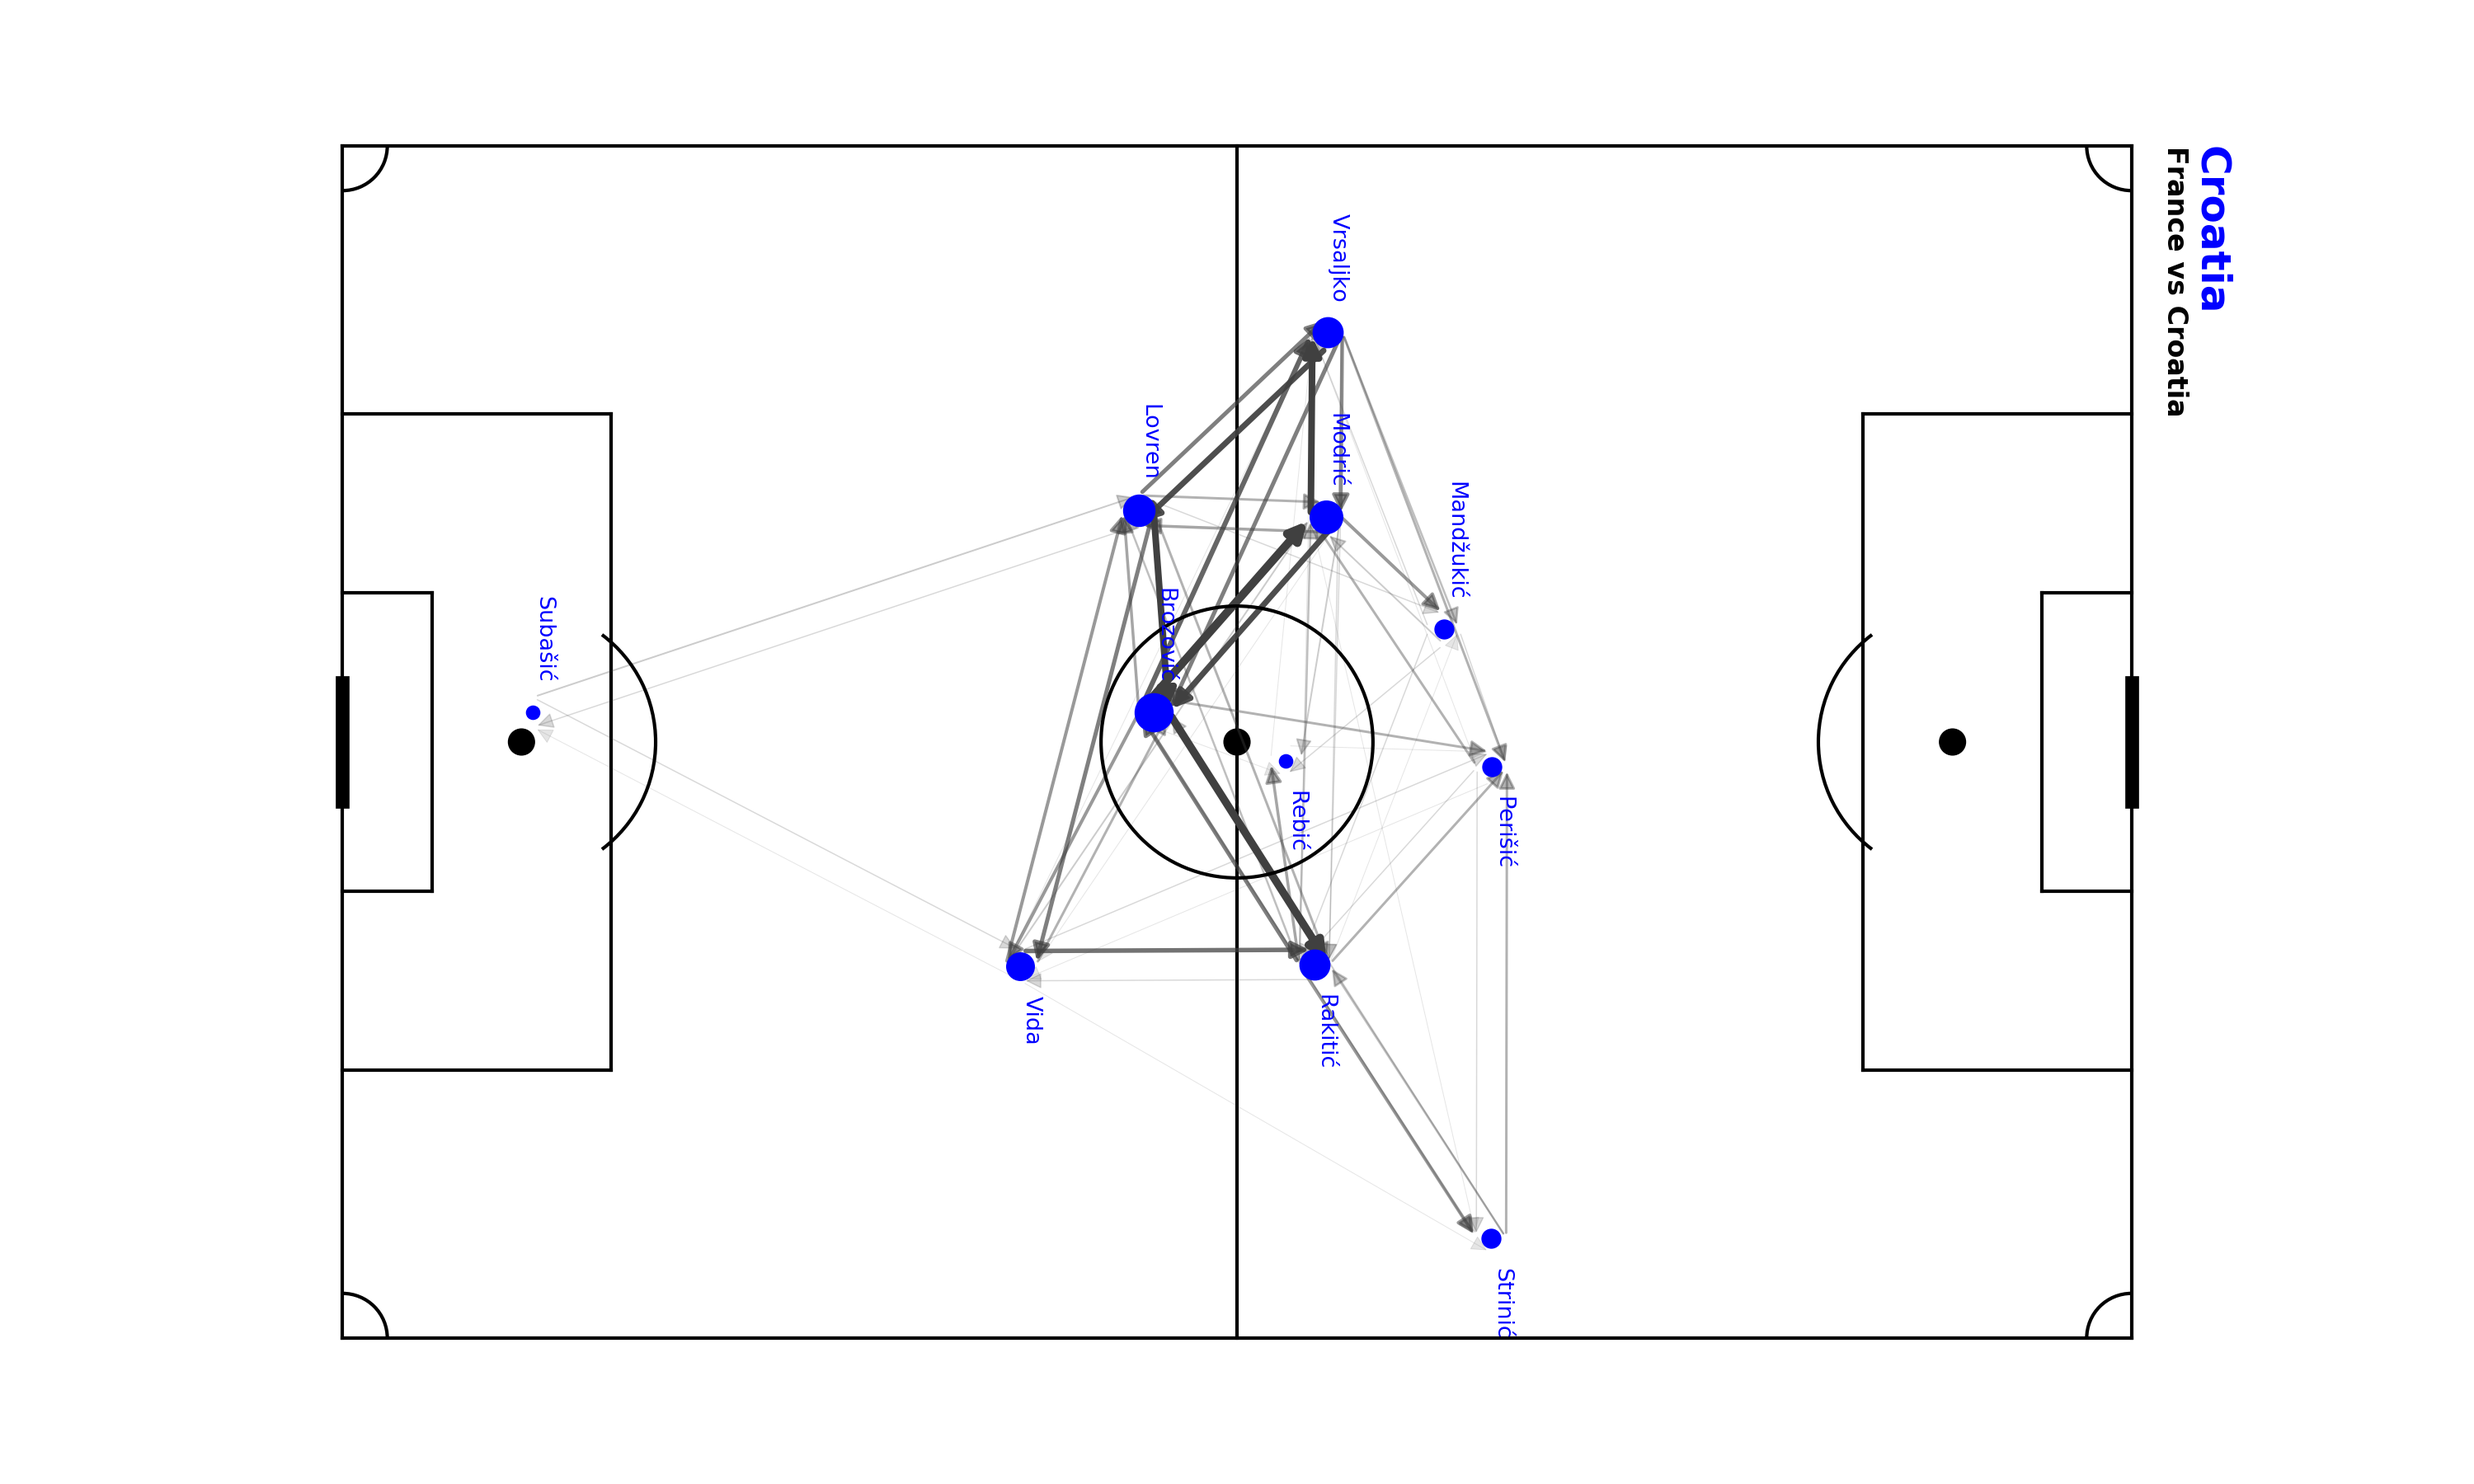
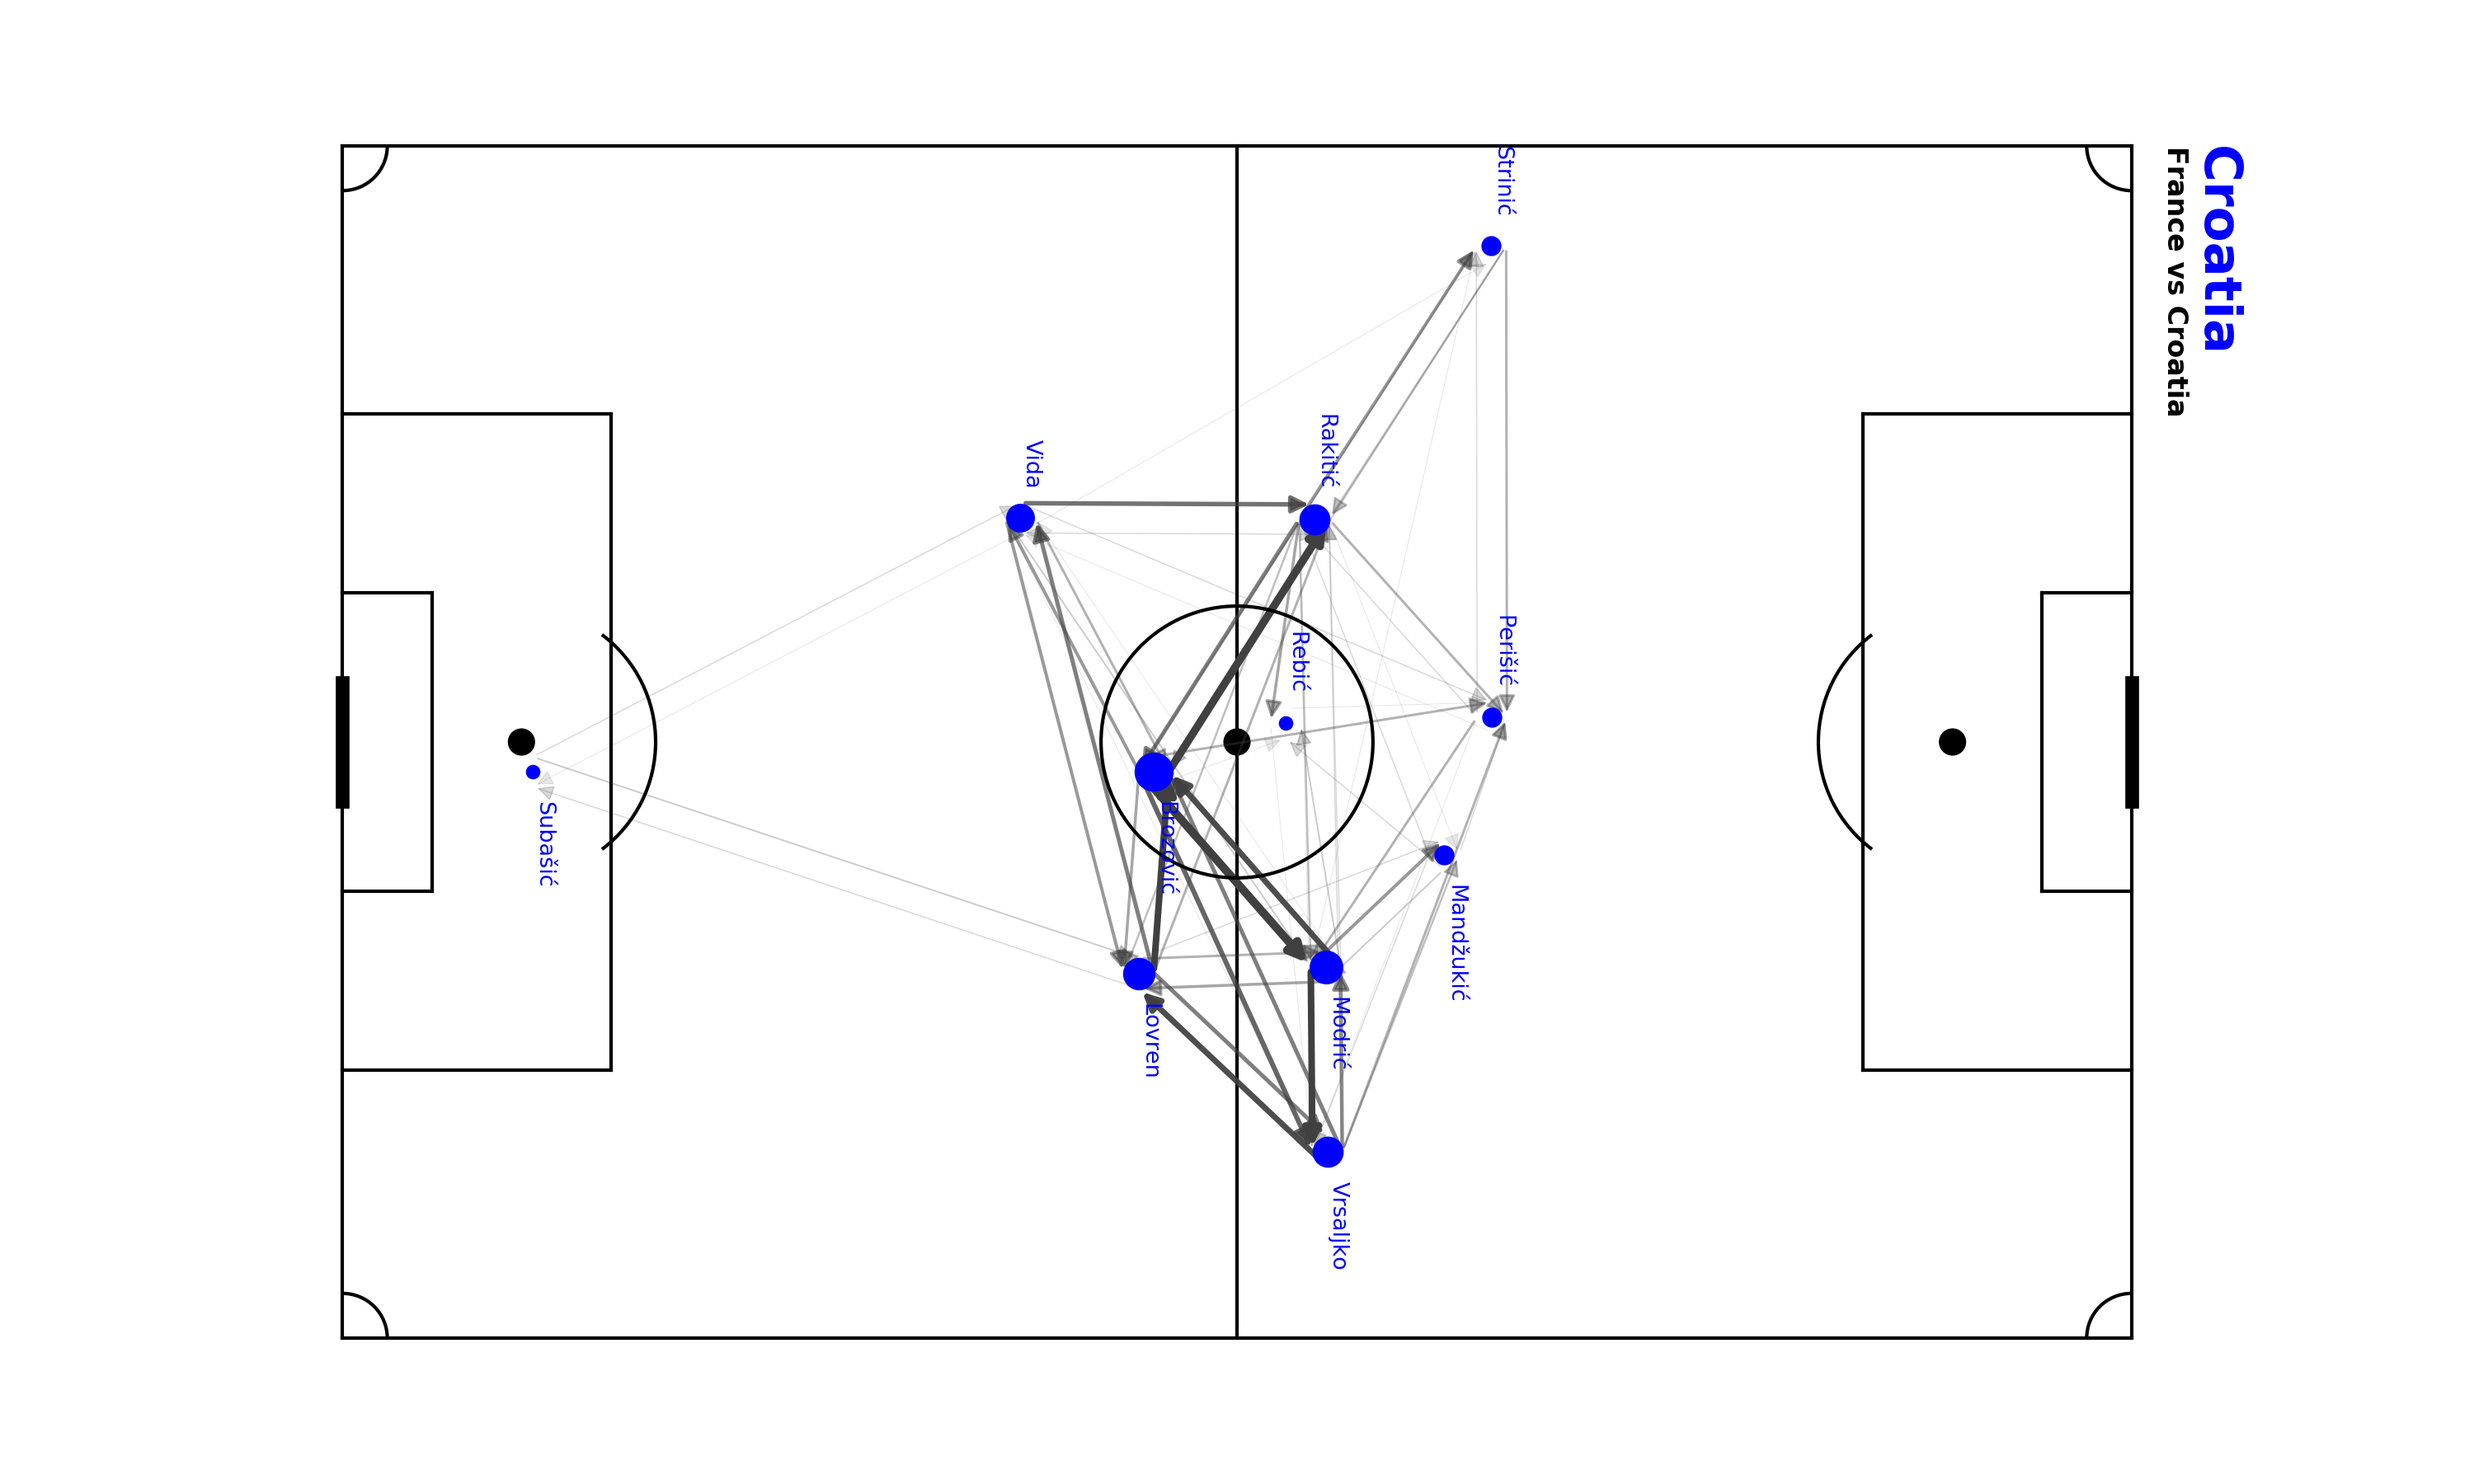
Major change to reverse y axis locations

diff --git a/_projects/passmap.md b/_projects/passmap.md
@@ -51,7 +51,7 @@ The two most important things of note are - the ***average position of the playe
 and the ***number of passes*** between any two given players.
 
 Apart from that, we also have the **players' names**, and the players' dot sizes (which indicate the **total number of
-passes played by the player**). 
+passes played by the player**).
 Finally we have some aesthetic details - the watermark, team's logo, match details.
 For the purpose of this post, we are going to ignore the watermark and the logo of the team.
 
@@ -69,6 +69,10 @@ import requests
 from pandas import json_normalize
 import numpy as np
 from pitch import Pitch ##a helper function to quickly give us a pitch
+import warnings
+
+from pandas.core.common import SettingWithCopyWarning
+warnings.simplefilter(action="ignore", category=SettingWithCopyWarning)
 
  ```
 
@@ -125,6 +129,11 @@ def load_file(match_id, getter="remote", path = None):
         with open(f"{path}/{match_id}.json", "r", encoding="utf-8") as f:
             match_dict = json.load(f)
             df = json_normalize(match_dict, sep="_")
+            df = df.query("location == location")
+            df[['x','y']] = pd.DataFrame(df.location.values.tolist(), index= df.index)
+            df['y'] = 80 - df['y'] ##Reversing the y-axis co-ordinates because Statsbomb use this weird co-ordinate system
+            df['location'] = df[['x', 'y']].apply(list, axis=1)
+
         return match_dict, df
 
     elif getter == "remote":
@@ -132,6 +141,10 @@ def load_file(match_id, getter="remote", path = None):
 
         match_dict = json.loads(resp.text)
         df = json_normalize(match_dict, sep="_")
+        df = df.query("location == location")
+        df[['x','y']] = pd.DataFrame(df.location.values.tolist(), index= df.index)
+        df['y'] = 80 - df['y'] ##Reversing the y-axis co-ordinates because Statsbomb use this weird co-ordinate system
+        df['location'] = df[['x', 'y']].apply(list, axis=1)
 
         return match_dict, df
 
@@ -325,6 +338,12 @@ Passmaps also have a few limitations: the affinity for average position may lead
 in a given match.
 
 I hope this was a fruitful/fun python exercise. For any sort of feedback, feel free to reach out to me on Twitter!
+
+__________________________
+
+**Note**: *Since I first published this post, I realized I had made a stupid error initially. I hadn't noticed that
+Statsbomb use the reversed co-ordinate system for the y-axis. Hence all players of the right ended up on the left and vice-versa.
+Full credit to [Soumyajit Bose](https://twitter.com/MessiBose) for catching that. I've fixed the code to take care of that.*
 
 
 
